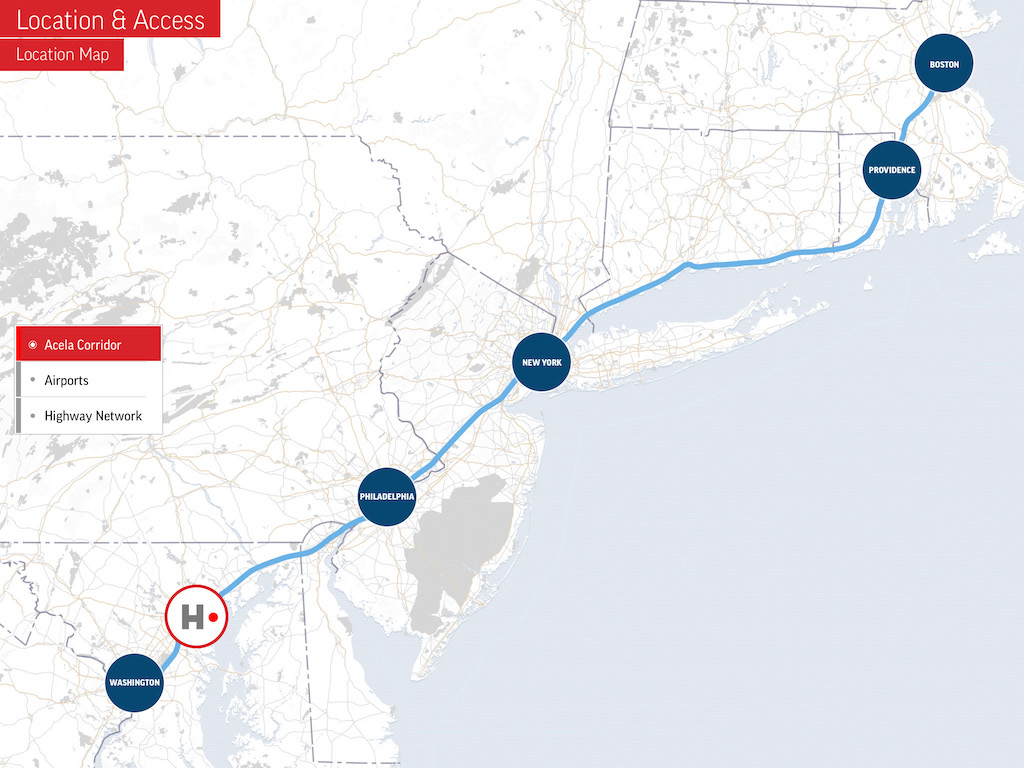
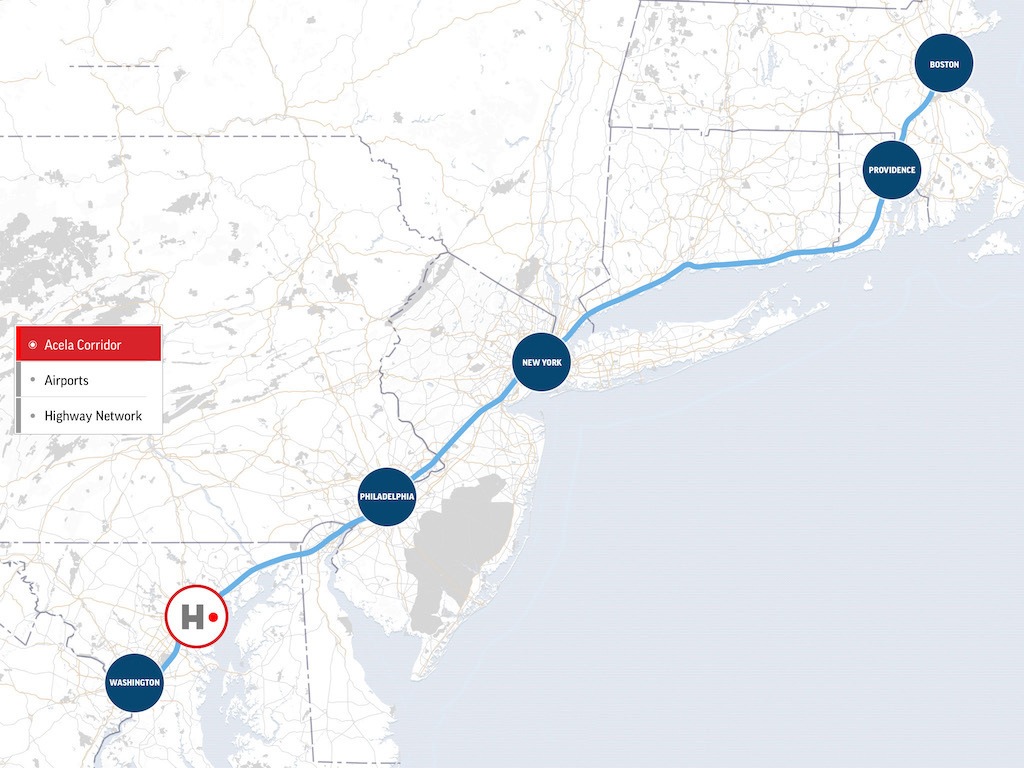
Update section & sub title in each view controller

Changed region(s): [[0.0, 0.0, 0.2188, 0.0938]]

diff --git a/beattyFrame/ViewController.m b/beattyFrame/ViewController.m
@@ -202,6 +202,10 @@ static float    menuButtonSize = 50.0;
 #pragma mark - Update Titles
 - (void)updateSectionTitle:(NSString *)sectionTitle {
     [uib_sectionTitle setTitle:sectionTitle forState:UIControlStateNormal];
+    [uib_sectionTitle sizeToFit];
+    CGRect frame = uib_sectionTitle.frame;
+    frame.size.width += 38;
+    uib_sectionTitle.frame = frame;
 }
 
 - (void)updateSubTitle:(NSString *)subTitle {
@@ -310,6 +314,7 @@ static float    menuButtonSize = 50.0;
     for (UIButton *button in arr_sideMenuBttuons) {
         if (button.tag == buttonTag) {
             [self highlightTheButton:button withAnimation:NO];
+            [self updateSubTitle:button.titleLabel.text];
             return;
         }
     }
@@ -376,6 +381,8 @@ static float    menuButtonSize = 50.0;
  */
 - (IBAction)loadSupporting:(id)sender {
     
+    [self updateSectionTitle:@"Supporting Stories"];
+    
     UIButton *tappedButton = sender;
     [self highlightTheButton:tappedButton withAnimation:YES];
     SupportingViewController *supporting = [self.storyboard instantiateViewControllerWithIdentifier:@"SupportingViewController"];
@@ -385,6 +392,10 @@ static float    menuButtonSize = 50.0;
 }
 
 - (IBAction)loadLoaction:(id)sender {
+    
+    [self updateSectionTitle:@"Location & Access"];
+    [self updateSubTitle:@"Location Map"];
+    
     UIButton *tappedButton = sender;
     [self highlightTheButton:tappedButton withAnimation:YES];
     LocationViewController *location = [self.storyboard instantiateViewControllerWithIdentifier:@"LocationViewController"];;
@@ -426,6 +437,10 @@ static float    menuButtonSize = 50.0;
  * Accroding to selected button's tag to set the initial loaded view
  */
 - (void)loadSummaryInSite360:(NSNotification *)notification {
+    
+    [self updateSectionTitle:@"Harbor Point"];
+    [self updateSubTitle:@"Site 360"];
+    
     summary = [[SummaryViewController alloc] init];
     summary.view.frame = self.view.bounds;
     summary.preloadSitePlan = NO;
@@ -435,7 +450,6 @@ static float    menuButtonSize = 50.0;
 }
 
 - (IBAction)loadSummary:(id)sender {
-    
     [self tapMenuButtonClose:nil];
     summary = [[SummaryViewController alloc] init];
     summary.view.frame = self.view.bounds;
